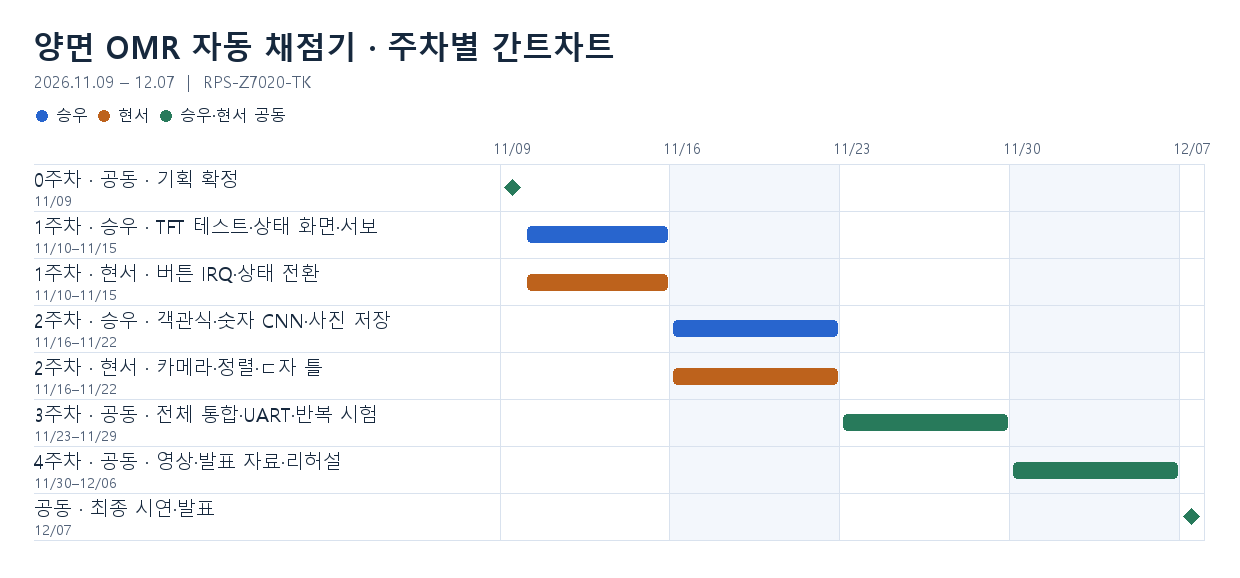
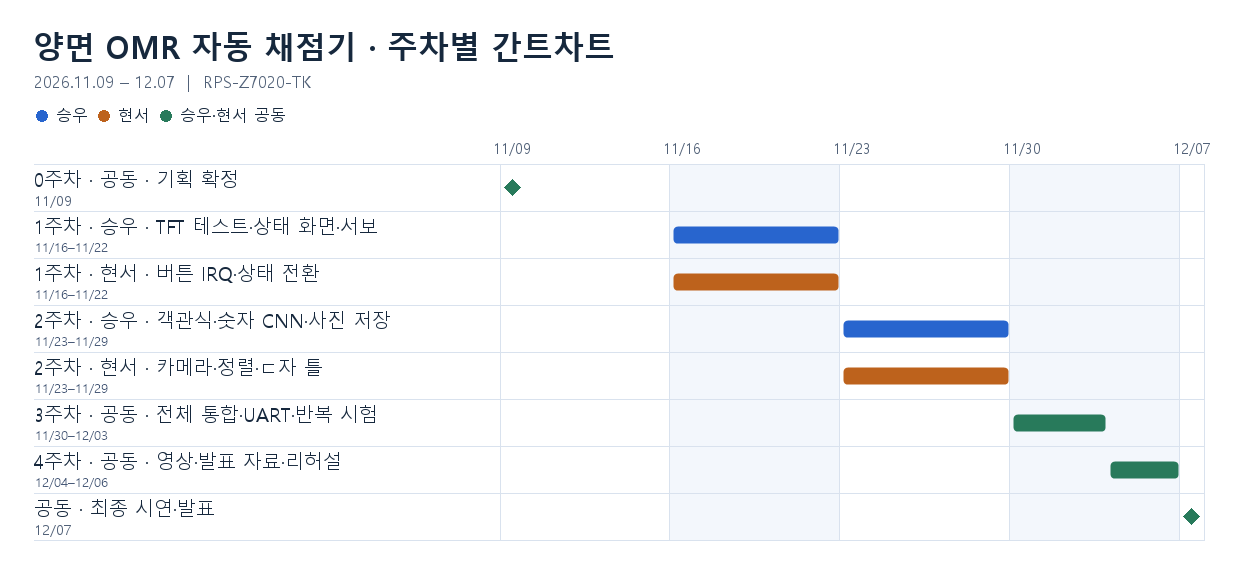
docs: reschedule OMR project from November 16

diff --git a/README.md b/README.md
@@ -13,13 +13,13 @@
 | 기간 | 승우 | 현서 | 완료 기준 |
 |---|---|---|---|
 | **0주차 · 11/09** | 보드·카메라·서보 확보 일정 확인. 카메라 높이와 ㄷ자 틀의 회전축 구상. | 버튼 3개, 상태도, 표시 화면, 학생별 저장 형식 정의. | 버튼 동작과 AXI4-Lite로 주고받을 상태·데이터를 함께 확정. |
-| **1주차 · 11/10–11/15** | ① TFT 테스트 패턴과 모서리 가이드 출력. ② 채점·전체 집계·초기화 상태별 TFT 화면. ③ 서보 PWM으로 앞·뒷면 위치와 복귀 시험. | 버튼 3개 디바운스와 인터럽트 요청(IRQ) 확인. 임시 READY·캡처 완료·점수로 상태 전환과 자동 IDLE 복귀 구현. Text LCD·7-segment 표시 확인. | 카메라 없이 세 버튼으로 각각 화면을 바꾸고, 표시 시간이 지나면 자동으로 IDLE 복귀. |
-| **2주차 · 11/16–11/22** | 실제 영상과 버튼 흐름에 객관식 채점 연결. 뒷면 1~3자리 분리, CNN 학습과 ARM 추론 구현. 앞뒤 사진 두 장을 같은 채점 건으로 SD에 저장. | 카메라·TFT 실영상과 모서리 정렬 판정. ㄷ자 틀에서 앞면 촬영·회전·뒷면 촬영·복귀 시험. PL의 앞면 마킹 집계와 뒷면 답란 잘라내기. | 모서리가 허용 오차 안에 들어오면 READY. 버튼 1로 두 장 저장·채점, 2로 집계, 3으로 초기화. `7`, `07`, `007`은 모두 정수 7로 채점. |
+| **1주차 · 11/16–11/22** | ① TFT 테스트 패턴과 모서리 가이드 출력. ② 채점·전체 집계·초기화 상태별 TFT 화면. ③ 서보 PWM으로 앞·뒷면 위치와 복귀 시험. | 버튼 3개 디바운스와 인터럽트 요청(IRQ) 확인. 임시 READY·캡처 완료·점수로 상태 전환과 자동 IDLE 복귀 구현. Text LCD·7-segment 표시 확인. | 카메라 없이 세 버튼으로 각각 화면을 바꾸고, 표시 시간이 지나면 자동으로 IDLE 복귀. |
+| **2주차 · 11/23–11/29** | 실제 영상과 버튼 흐름에 객관식 채점 연결. 뒷면 1~3자리 분리, CNN 학습과 ARM 추론 구현. 앞뒤 사진 두 장을 같은 채점 건으로 SD에 저장. | 카메라·TFT 실영상과 모서리 정렬 판정. ㄷ자 틀에서 앞면 촬영·회전·뒷면 촬영·복귀 시험. PL의 앞면 마킹 집계와 뒷면 답란 잘라내기. | 모서리가 허용 오차 안에 들어오면 READY. 버튼 1로 두 장 저장·채점, 2로 집계, 3으로 초기화. `7`, `07`, `007`은 모두 정수 7로 채점. |
 
 | 기간 | 승우·현서 공동 작업 | 완료 기준 |
 |---|---|---|
-| **3주차 · 11/23–11/29** | 카메라·서보·버튼·표시장치 통합. UART에서 전체 응시자 수와 학번·이름 입력. SD에 RTC 시각·앞뒤 사진·채점 결과를 학생별로 연결. 반복 뒤집기, 연속 버튼 입력, 정렬 이탈, 집계 초기화 후 복귀 시험. 학습에 쓰지 않은 필체의 인식 정확도와 재확인 비율 측정. | 학번 입력부터 양면 채점, 개인별 저장, 중복 학번을 제외한 전체 집계까지 한 번에 시연. |
-| **4주차 · 11/30–12/06** | 전체 동작 영상 촬영. 시스템 구조도·버튼 상태도·CNN 흐름·실측 결과를 발표 자료로 정리. 시연 세팅과 발표 리허설. | 12/06까지 시연본과 발표 자료 확정. |
+| **3주차 · 11/30–12/03** | 카메라·서보·버튼·표시장치 통합. UART에서 전체 응시자 수와 학번·이름 입력. SD에 RTC 시각·앞뒤 사진·채점 결과를 학생별로 연결. 반복 뒤집기, 연속 버튼 입력, 정렬 이탈, 집계 초기화 후 복귀 시험. 학습에 쓰지 않은 필체의 인식 정확도와 재확인 비율 측정. | 학번 입력부터 양면 채점, 개인별 저장, 중복 학번을 제외한 전체 집계까지 한 번에 시연. |
+| **4주차 · 12/04–12/06** | 전체 동작 영상 촬영. 시스템 구조도·버튼 상태도·CNN 흐름·실측 결과를 발표 자료로 정리. 시연 세팅과 발표 리허설. | 12/06까지 시연본과 발표 자료 확정. |
 | **12/07** | 최종 시연·발표. | 준비 → 채점 → 전체 집계 → 초기화 흐름을 실보드로 시연. |
 
 2주차에는 실물 카드와 강의용 카메라로 같은 촬영 높이에서 앞면 마킹과 뒷면 숫자 획이 모두 읽히는지 확인한다.
